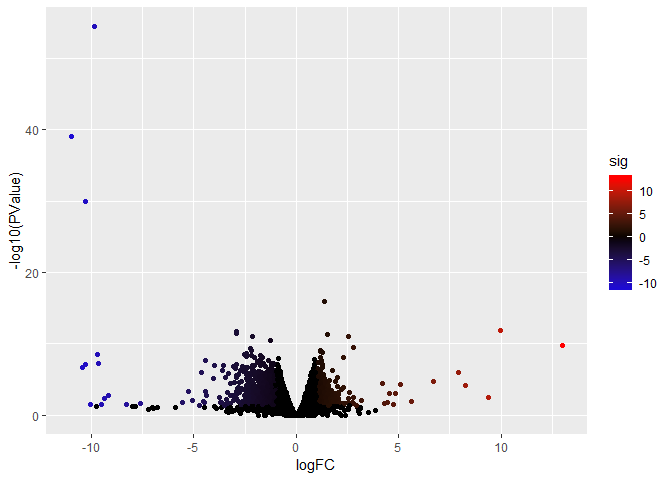
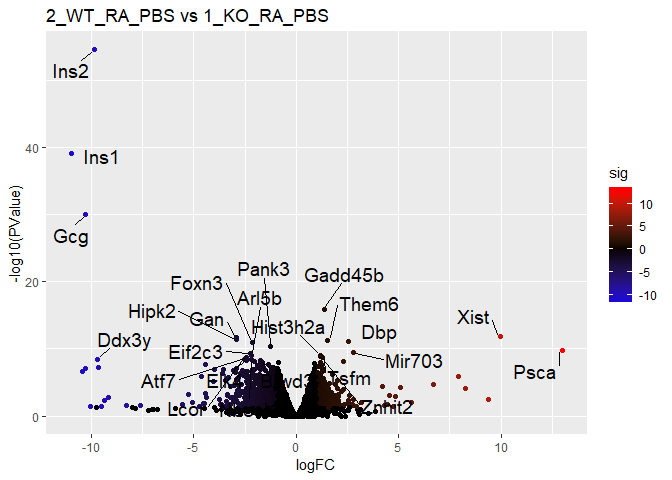
three volcano plots and text labels.

diff --git a/README.md b/README.md
@@ -101,6 +101,10 @@ logcpm <- cpm(y, prior.count=2, log=TRUE)
 logfile="logcpm.csv"
 if (!file.exists(logfile)) write.csv(logcpm,logfile)
 
+ifSig=function(logFC,P){ # P = PValue or FDR
+   return(abs(logFC)>=1&P<0.05)
+   # return(abs(logFC)>=0.5849&P<0.1)
+}
 # setwd("2018 results") # allow results to be written into the subfolder
 
 if (!require("ggplot2")) install.packages("ggplot2")
@@ -140,25 +144,38 @@ plotellipses(s.pca)
 # Perform pairwise comparisons
 
 ``` r
+if (!require("ggrepel")) install.packages("ggrepel")
+library(ggrepel)
 y1 <- estimateDisp(y,model.matrix(~SingleFactor,data=a))
-pair=c("2_WT_RA_PBS","1_KO_RA_PBS") #  c("A","B") = B - A
-
-tt=topTags(exactTest(y1, pair),n=9999999,sort.by="none") # select all with original order
-# write.csv(tt,paste0("Pair_",paste(pair,collapse=" vs "),".csv")) # save to local file
-
-attach(tt$table)
-tt$table$sig=ifelse(PValue<0.05&abs(logFC)>1,logFC,0)
-p = ggplot(tt$table,aes(logFC,-log10(PValue)))+
-  geom_point(aes(col=sig))+
-  scale_colour_gradient2(low="blue",mid="black",high="red")
-p
+pairs <- rbind(  #  c("A","B") = B - A
+      c("2_WT_RA_PBS","1_KO_RA_PBS"), # MMP13
+      c("2_WT_RA_PBS","1_WT_SM_PBS"), # Smoke
+      c("2_WT_RA_PBS","1_WT_RA_FLU") # Flu
+) 
+for (r in 1:nrow(pairs)) {
+   title=paste(pairs[r,],collapse=" vs ")
+   tt=topTags(exactTest(y1, pairs[r,]),n=9999999,sort.by="none") # select all with original order
+   # write.csv(tt,paste0("Pair_",title,".csv")) # save to local file
+   
+   tt$table$sig=ifelse(ifSig(tt$table$logFC,tt$table$PValue),tt$table$logFC,0)
+   p = ggplot(tt$table,aes(logFC,-log10(PValue)))+
+      geom_point(aes(col=sig))+
+      scale_colour_gradient2(low="blue",mid="black",high="red")+
+      labs(title=title)
+   # p
+   tt_filter=subset(tt$table, tt$table$sig != 0)
+   tt_filter_sort_top=tt_filter[order(tt_filter$FDR), ][1:24,]
+   print(
+      p+geom_text_repel(
+         data=tt_filter_sort_top,
+         aes(label=row.names(tt_filter_sort_top)),size=5,
+         box.padding = unit(0.35, "lines"),point.padding = unit(0.3, "lines")
+      )
+   )
+}
 ```
 
-![](README_files/figure-gfm/edgeRpair-1.png)<!-- -->
-
-``` r
-detach(tt$table)
-```
+![](README_files/figure-gfm/edgeRpair-1.png)<!-- -->![](README_files/figure-gfm/edgeRpair-2.png)<!-- -->![](README_files/figure-gfm/edgeRpair-3.png)<!-- -->
 
 # Fit generalized linear model
 
@@ -182,14 +199,9 @@ allList=function(cf){ # select complete unordered test result regarding each coe
 
 ``` r
 # functions that select stats on each factor
-ifSig=function(logFC,PValue,FDR){
-   # return(abs(logFC)>=1&PValue<0.05)
-   return(abs(logFC)>=1&FDR<0.05)
-   # return(abs(logFC)>=0.5849&FDR<0.1)
-}
 filterCount=function(cf){
    cat(paste0(colnames(design)[cf]," Counts:\n"))
-   return(nrow(subset(as.data.frame(topTags(glmQLFTest(fit, coef=cf),n=999999)),ifSig(logFC,PValue,FDR))))
+   return(nrow(subset(as.data.frame(topTags(glmQLFTest(fit, coef=cf),n=999999)),ifSig(logFC,FDR))))
 }
 filterTop=function(cf,top=24){
    cat(paste0(colnames(design)[cf]," top",top," :\n"))
@@ -197,12 +209,12 @@ filterTop=function(cf,top=24){
 }
 filterName=function(cf){
    cat(paste0(colnames(design)[cf]," Name:\n"))
-   return(row.names(subset(as.data.frame(topTags(glmQLFTest(fit, coef=cf),n=999999)),ifSig(logFC,PValue,FDR))))
+   return(row.names(subset(as.data.frame(topTags(glmQLFTest(fit, coef=cf),n=999999)),ifSig(logFC,FDR))))
    
 }
 filterWrite=function(cf){
    cat(paste0(colnames(design)[cf]," written to file:\n"))
-   write.csv(subset(as.data.frame(topTags(glmQLFTest(fit, coef=cf),n=999999)),ifSig(logFC,PValue,FDR)),
+   write.csv(subset(as.data.frame(topTags(glmQLFTest(fit, coef=cf),n=999999)),ifSig(logFC,FDR)),
              paste0("",gsub(":","+",colnames(design)[cf]),".csv"))
 }
 
